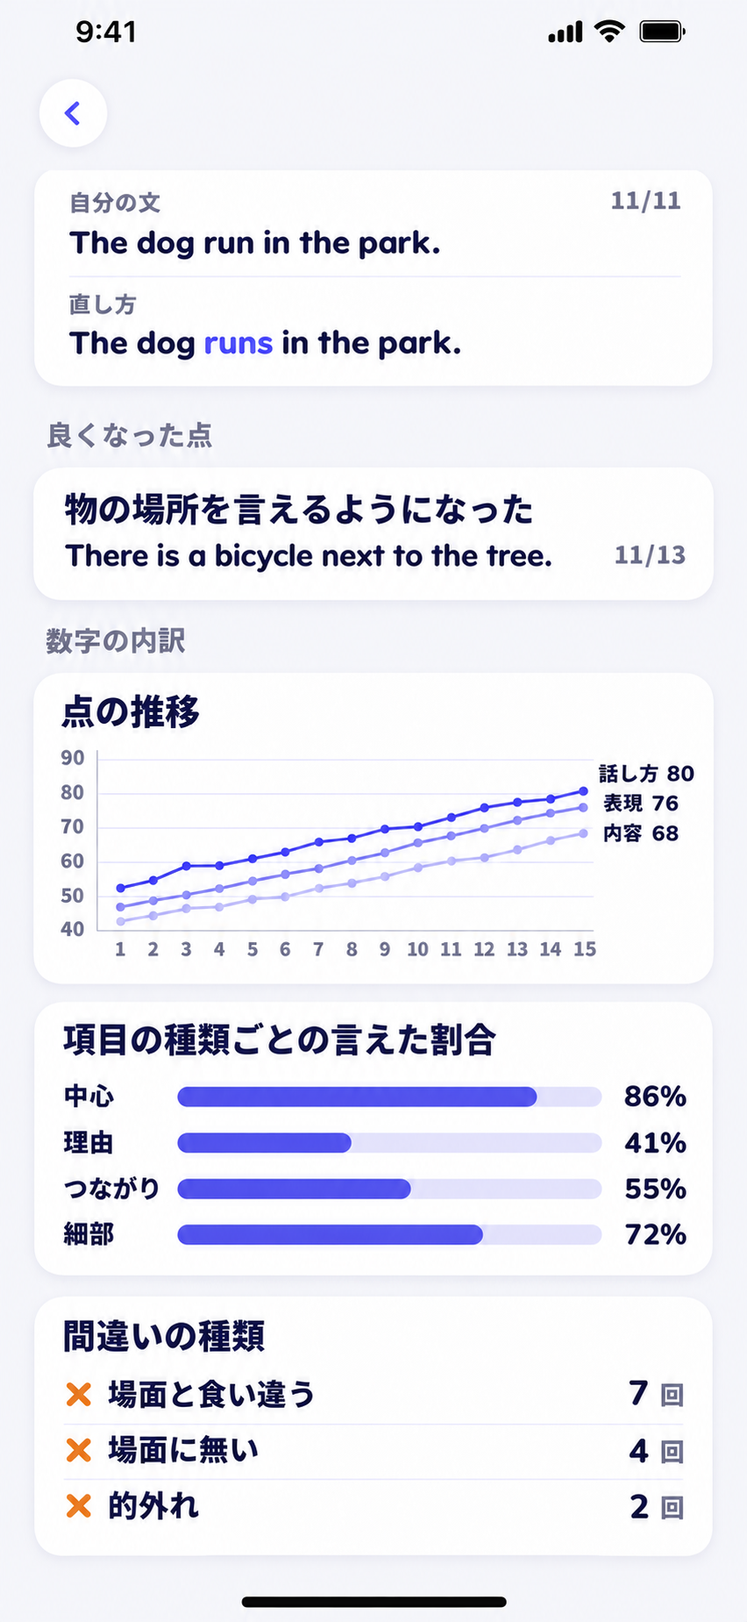
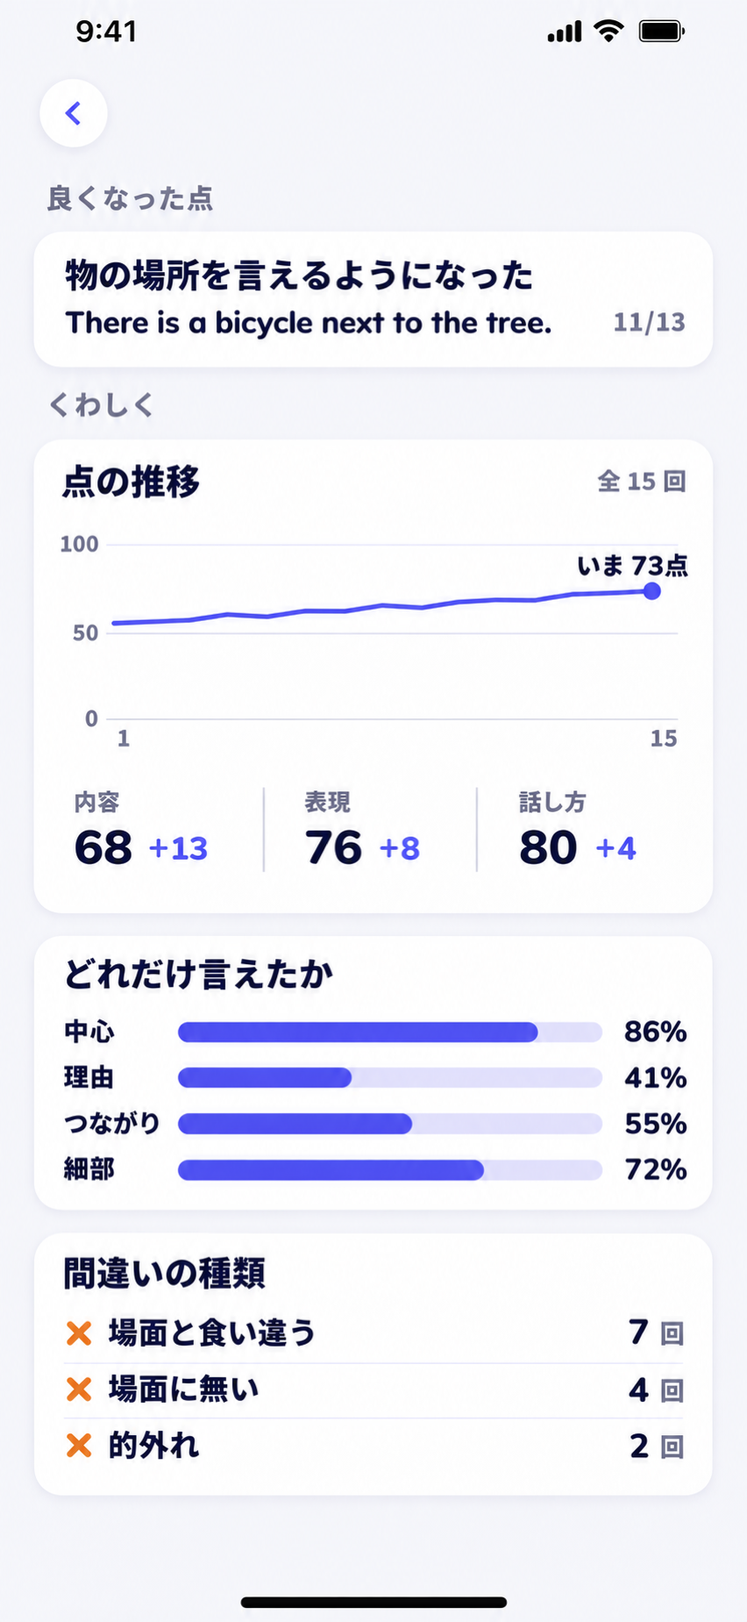
docs: 苦手・ホームを確定にし、きろくの 3D を全幅に直す
2026-11-13 のユーザーの決定を反映する。

- 苦手: 札を確定に。点の推移は案 C（合計の線 1 本と「いま 73点」、3 つの軸の今の点と伸び。
  「前半 → 後半の差」の札は付けない）。見出し「数字の内訳」を「くわしく」に、カードの題
  「項目の種類ごとの言えた割合」を「どれだけ言えたか」に変えた。癖は最大 3 件（0 件もあり、
  そのときは「くり返す癖は見つかりませんでした」）。下へスクロールした後の画像を Codex で描き直し、
  案 C の画像から札を消し、作っている間の画像の見出しを差し替えた。案 A・B は退けた案として短くし、画像を消した
- きろく: 3D をカードに入れず、今の実装と同じく全幅で横にスクロールする（隣ののぞきも無し）。
  ぼかしの壁を場面の名前のすぐ下まで上げる。画像を 9-records-proposal-v5-{1,2,3}.png に描き直した
- ホーム: 案 B（1-home-proposal-v3.png）で確定

diff --git a/docs/design/ui/screens/weak.md b/docs/design/ui/screens/weak.md
@@ -3,13 +3,13 @@ id = "weak"
 title = "苦手"
 group = "record"
 order = 30
-image = ["11-weak-proposal-v2-top.png", "11-weak-proposal-v2-bottom.png", "11-weak-proposal-v2-loading.png", "11-weak-proposal-v2-trend-a.png", "11-weak-proposal-v2-trend-b.png", "11-weak-proposal-v2-trend-c.png"]
-status = "案（画面の形を比べている）"
-status_note = "2026-11-13 に、並びと中身、作っている間の出し方を決めた。点の推移の見せ方は 3 案を比べている。実装は無い。画像はすべて Codex の案で、実装の見た目ではない。"
-image_labels = ["全体の案: 上", "全体の案: 下へスクロールした後", "AI の分析を作っている間（初めて。前回の分析が無い）", "点の推移の案 A: 細い折れ線 3 本と右端の今の値", "点の推移の案 B: 軸ごとに 3 段の小さな図", "点の推移の案 C: 合計の太い線 1 本と、3 つの軸の今の値と前半 → 後半の差"]
+image = ["11-weak-proposal-v2-top.png", "11-weak-proposal-v2-bottom.png", "11-weak-proposal-v2-loading.png", "11-weak-proposal-v2-trend-c.png"]
+status = "確定（実装はこれから）"
+status_note = "2026-11-13 に決めた。点の推移は案 C（合計の線 1 本と、3 つの軸の今の点と伸び）。実装は無い。画像はすべて Codex の案で、実装の見た目ではない（作っている間の画像の見出し「くわしく」は、文字だけ差し替えた）。癖の実例と「次はここ」は、まだ押せない。"
+image_labels = ["上", "下へスクロールした後（見出し「くわしく」、点の推移は案 C）", "AI の分析を作っている間（初めて。前回の分析が無い）", "点の推移（案 C）を大きく"]
 role = "端末に残した直近 10 回の記録から、くり返す癖と次に試すことを AI が出し、数えた内訳を添える。"
-main_actions = ["「次はここ」を見る（押した先は Award Day の後に決める）", "くり返す癖（2〜3 件）と直し方を読む", "良くなった点を読む", "数字の内訳（点の推移・言えた割合・間違いの種類）を見る", "戻る（きろくへ）"]
-data_shown = ["次はここ（AI の次の 1 回で試すこと。無ければ数えた結果で最も低い種類）", "くり返す癖（観点・何が起きているか・自分の文の実例と日付・直し方）", "良くなった点（引用つき。無ければ出さない）", "点の推移（全部の回。内容・表現・話し方）", "項目の種類ごとの言えた割合（中心・理由・つながり・細部）", "間違いの種類の数（場面と食い違う・場面に無い・的外れ）"]
+main_actions = ["「次はここ」を見る（押した先は Award Day の後に決める）", "くり返す癖（最大 3 件）と直し方を読む", "良くなった点を読む", "「くわしく」（点の推移・どれだけ言えたか・間違いの種類）を見る", "戻る（きろくへ）"]
+data_shown = ["次はここ（AI の次の 1 回で試すこと。無ければ数えた結果で最も低い種類）", "くり返す癖（最大 3 件。足りなければ少なく、0 件もある。観点・何が起きているか・自分の文の実例と日付・直し方）", "良くなった点（引用つき。無ければ出さない）", "点の推移（全部の回の合計の線と、内容・表現・話し方の今の点と伸び）", "どれだけ言えたか（項目の種類ごとの言えた割合。中心・理由・つながり・細部）", "間違いの種類の数（場面と食い違う・場面に無い・的外れ）"]
 note = "数え方と AI の呼び方の正本は、分析の設計の文書 `docs/design/weak-point-analysis.md` と ADR `docs/adr/20261113-analyze-weak-points-with-ai-from-on-device-counts.md`（どちらも branch docs/weak-point-analysis。main にはまだ無い）。見せ方はこの文書（v2）が正。"
 entry_points = [
   { from = "records", how = "push", trigger = "フッターの苦手をぶっとばせ！（記録が 5 件以上のときだけ出る）" },
@@ -21,16 +21,15 @@ exits = [
 
 ## 課題
 
-- 点の推移の見せ方（全部の回を横に並べる）。折れ線 3 本（内容・表現・話し方）が有力だが、ユーザーは「まず見やすさを追求したい」。案 A〜C を比べて決める。
+- 点の推移の見せ方（全部の回を横に並べる）。ユーザーは「まず見やすさを追求したい」。案 A〜C を比べ、2026-11-13 に案 C に決めた。
+- 「数字の内訳」という見出しは、小中高生には「何の数字？」となる。2026-11-13 に「くわしく」にした。
 
 ## 改善案
 
 - 2026-11-12 に、グラフを並べる案（A）と、「次はここ」を 1 つ大きく出す案（B）を比べ、B にした。
-- 2026-11-13 の点の推移の 3 案（画像の 4〜6 枚目）:
-  - 案 A: 細い折れ線 3 本（紫の濃淡。話し方は破線）を 1 つの図に重ね、右端に今の値の札（「内容 68」など）を直接付ける。凡例の箱は置かない。
-  - 案 B: 軸ごとに 3 段の小さな図（スモールマルチプル）に分ける。横に並んだ回と 0〜100 の目盛りは 3 段で共通。各段は紫の線 1 本と右端の今の値。
-  - 案 C: 合計の太い折れ線 1 本と「いま 73点」。その下に 3 つの軸の今の値と、直近 10 回の前半 → 後半の差（「＋8」など）。
-  - 紫の濃淡 3 色（案 A）は、色の検査（dataviz の validate_palette）で、いちばん濃い色が明るさの帯から外れ、いちばん薄い色が地との差 3:1 に届かなかった。色だけで見分けさせず、右端の札と線の形（破線）を併せて使う。
+- 2026-11-13 の点の推移の 3 案のうち、退けた案（画像は消した）:
+  - 案 A: 細い折れ線 3 本（紫の濃淡）を 1 つの図に重ね、右端に今の値の札。紫の濃淡は色だけでは見分けにくかった（薄い紫が地との差 3:1 に届かない）。
+  - 案 B: 軸ごとに 3 段の小さな図。線は重ならないが、0〜100 の共通の目盛りだと変化が平らに見えた。
 
 ## 決定
 
@@ -38,20 +37,20 @@ exits = [
 
 - 入口: きろくの下に固定したフッター「苦手をぶっとばせ！」。記録が 4 件以下のときは、入口ごと隠す（5 件以上で出る）。
 - 分析: 直近 10 件の記録を、級を混ぜて使う。AI は記録が 5 件以上のときに呼ぶ（入口が出るときは、いつも呼べる）。
-  - AI が返すもの: くり返す癖を、内容と表現を合わせて 2〜3 件（各件に観点・何が起きているか・自分の文の実例・直し方）、良くなった点 1 つ（後半の回の自分の文を引用する。無ければ出さない）、次の 1 回で試すこと 1 つ。
+  - AI が返すもの: くり返す癖を、内容と表現を合わせて最大 3 件（目安は 2〜3 件。2 回以上出た癖が足りなければ少なく、0 件もある。各件に観点・何が起きているか・自分の文の実例・直し方）、良くなった点 1 つ（後半の回の自分の文を引用する。無ければ出さない）、次の 1 回で試すこと 1 つ。
   - 発音（話し方）は AI に渡さない。点の推移で見せる。
   - 送った入力は、サーバーにも端末にも残さない。返ってきた分析の結果は、端末（`analysis/weak-points.json`）に 1 つだけ覚え、作り直すときに入れ替える。設定の「きろくと録音をすべて消す」で一緒に消す。
 - 並び（上から）:
   - 1 番目: 「次はここ」: AI の次の 1 回で試すこと。薄い紫の地のカード（振り返りの「次の一つ」と同じ見た目）。
-  - 2 番目: くり返す癖（2〜3 件）: 観点の札（内容・表現）、何が起きているか、自分の文の実例と日付、直し方。
+  - 2 番目: くり返す癖（最大 3 件）: 観点の札（内容・表現）、何が起きているか、自分の文の実例と日付、直し方。0 件のときは、欄に短い 1 行「くり返す癖は見つかりませんでした」を出す（言い回しは分析の設計の文書の 9 章の表に合わせた）。良くなった点と「次はここ」は、そのまま出す。
   - 3 番目: 良くなった点（1 つ。引用と日付）。無ければ欄ごと出さない。
-  - 4 番目: 数字の内訳: 点の推移、項目の種類ごとの言えた割合、間違いの種類の数。
+  - 4 番目: 「くわしく」（2026-11-13 に「数字の内訳」から変えた。小中高生に伝わる言葉にするため）: 「点の推移」、「どれだけ言えたか」（項目の種類ごとの言えた割合。行は 中心・理由・つながり・細部）、「間違いの種類」。
 - AI の分析を作っている間（数秒〜十数秒）:
   - 前回の分析があれば、それを「前回の分析」として出したまま作り直す。
   - 無ければ（初めて）、「次はここ」は数えた結果で言えた割合が最も低い種類を出す（例: 「『理由』を言おう」「because を足してみよう。」と「理由 41%」）。癖の欄は、作っている途中と分かる控えめな表示（灰色の仮の行と「AI が分析しています…」）にする。良くなった点の欄はまだ出さない。
-  - 失敗したときも、数えた結果（「次はここ」の代わりと数字の内訳）は出す。
+  - 失敗したときも、数えた結果（「次はここ」の代わりと「くわしく」）は出す。
 - 癖の実例（自分の文）は、今は押せない（文と日付は出す）。「次はここ」を押した先も、Award Day の後に決める。
-- 点の推移は、直近 10 件に限らず、全部の回を古い順に横に並べる。見せ方は案 A〜C を比べている（課題）。
+- 点の推移は、直近 10 件に限らず、全部の回を古い順に横に並べる。見せ方は案 C（2026-11-13 に決定）: 合計の太い線 1 本と、最後の点に「いま 73点」。その下に、内容・表現・話し方の今の点と伸び（「＋13」など）を並べる。伸びの数字だけを出し、「前半 → 後半の差」のような説明の札は付けない。伸びの数え方（直近 10 件の前半と後半の平均の差）は、分析の設計の文書の「点の前半と後半」に合わせる（推測。数え方は設計の文書が正）。
 - 見た目はアプリにそろえる: ボタンは紫の単色、カードは白と今の角丸、文字も今のアプリ。グラデーションにしない。出すのは本当に要るものだけ。
 - 画像の中の文（英検 3 級の場面を想定した例）は作った例で、AI の実際の出力ではない。
 

diff --git a/docs/design/screen-flow.md b/docs/design/screen-flow.md
@@ -19,7 +19,7 @@
 | # | 画面 | 見る人 | 状態（2026-11-13） | 主な中身 |
 | --- | --- | --- | --- | --- |
 | 0 | 最初の画面 | 初めて開いた人 | 確定（実装あり: #116） | 名前を保存していないときだけ出る。ジオラマ、「ScenEnglish」、「あなたの名前を決めよう」、名前の欄、「はじめる」。色は 6 色から自動で決める。決めたらホームへ、2 回目からは出ない。機能の案内（オンボーディング）は作らない（[`ui/screens/first.md`](./ui/screens/first.md)） |
-| 1 | ホーム | 全員 | 案（直し待ち） | 「あそぶ」（自分の部屋を作って待合へ）、きろくへの入口、右上に設定。名前と色の欄と「部屋を作る」「部屋に入る」は無くした。2026-11-13 のレビューで、案 B（大きなジオラマの下にタイトル。まとまりは空きの中の少し上）と、「あそぶ」（塗り）と「きろく」（枠だけ、同じ大きさ、文字だけ）を下の方に縦に並べる形に直すと決めた（[`ui/screens/home.md`](./ui/screens/home.md)） |
+| 1 | ホーム | 全員 | 確定（実装あり: #114 / #116。置き方を直す） | 「あそぶ」（自分の部屋を作って待合へ）、きろくへの入口、右上に設定。名前と色の欄と「部屋を作る」「部屋に入る」は無くした。2026-11-13 のレビューで、案 B（大きなジオラマの下にタイトル。まとまりは空きの中の少し上）と、「あそぶ」（塗り）と「きろく」（枠だけ、同じ大きさ、文字だけ）を下の方に縦に並べる形に直すと決め、案 B で確定した（[`ui/screens/home.md`](./ui/screens/home.md)） |
 | 2 | 他のルームに入る（シート） | ホスト | 確定（実装あり: #116。移り方は直す） | 待合の「他のルーム」で開く。QR の読み取り、コードの入力。4 桁そろうと、先に確かめる通信はせずに入りにいき、入れたら今の部屋を抜ける。入れなければ今の待合のまま理由を出す（2026-11-13）。前はホームの「部屋に入る」で開く画面だった（[`ui/screens/join.md`](./ui/screens/join.md)） |
 | 3 | 待合（ロビー） | 全員 | 確定（実装あり: #116。移り方は直す。難易度とスタートは実装済み） | 部屋のコードと QR（ホストには、その下に「他のルーム」。ほかの人がいれば、移る前に「やめる／入る」で確かめる）、参加者の一覧。ホストだけ、難易度（かんたん＝英検3級・ふつう＝準2級・むずかしい＝2級）を選んで「スタート」。場面はスタートまで見せない（2026-11-11 に変更。サムネイル付きの一覧と「おまかせ」は外した）。場面を AI で作っている間は全員ここで待つ |
 | 4 | プレイ | 全員 | 実装済み | 3D シーン（最初に自動で 1 周）、カウントダウン、録音中の残り時間、音量メーター、「話し終えた」ボタン。ライブ字幕は出さない（お題の帯と注意書きは 2026-11-11 に検討して出さないことにした） |
@@ -27,9 +27,9 @@
 | 6 | 結果発表（順位） | 全員 | 実装済み | 最下位から 1 行ずつ順位・名前・合計の点を開き、最後に優勝を出す。全員の画面で同じ盤面（3 つの軸やチェックの数は出さない。2026-11-11 に確かめた） |
 | 7 | 振り返り | 各自 | 実装済み | 3 つの軸の点、下線を引いた自分の描写、場面のチェック、場面と合わない描写、次の一つ、見本の答え、言い直し、話し方の一言（2026-11-11 に変更。前の講評と模範表現は無くなった。[`ui/screens/review.md`](./ui/screens/review.md)） |
 | 8 | みんなの描写 | 全員 | 実装済み | 全員の文字起こしを点数順に並べ、各行に合計の点を添える（2026-11-11 に変更。講評の一言は無くなった） |
-| 9 | きろく | 各自 | 確定（実装あり: #114。直す） | 3D と場面の名前の白いカードの横の並び（隣がのぞく）と、選んだ場面を遊んだ回の振り返り（7 と同じ中身。順位は無い）を新しい順に縦に続ける。下へスクロールすると、小さくした 3D と名前だけが上に止まり、その下で中身がぼかしの壁に溶ける（余白は詰める）。苦手の入口は下に固定したフッター。2026-11-13 に案 B 改に確定（[`ui/screens/records.md`](./ui/screens/records.md)） |
+| 9 | きろく | 各自 | 確定（実装あり: #114。直す） | 全幅の 3D の横の並び（カードに入れない。隣ののぞきも無し）と場面の名前と、選んだ場面を遊んだ回の振り返り（7 と同じ中身。順位は無い）を新しい順に縦に続ける。下へスクロールすると、小さくした 3D と名前だけが上に止まり、名前のすぐ下で中身がぼかしの壁に溶ける。苦手の入口は下に固定したフッター。2026-11-13 に案 B 改に確定（[`ui/screens/records.md`](./ui/screens/records.md)） |
 | 10 | 設定 | 各自 | 確定（実装あり: #114 / #116。名前と色は直す） | 名前と色（2026-11-13 に、重ねる画面をやめて、前のホームの欄をこの画面の中に移すと確定）、きろくと録音をすべて消す（#114。オレンジ、回数つきの確かめ）。今はこの 2 つだけ。プライバシーポリシー・問い合わせの窓口・ライセンスの表示・アプリの版は後で足す（[`ui/screens/settings.md`](./ui/screens/settings.md)） |
-| 11 | 苦手 | 各自 | 案（画面の形を比べている） | 入口はきろくのフッター「苦手をぶっとばせ！」（記録が 5 件以上のときだけ出る）。直近 10 件から AI が出す「次はここ」（次の 1 回で試すこと）→ くり返す癖 2〜3 件（観点・何が起きているか・自分の文・直し方）→ 良くなった点 → 数字の内訳（点の推移・項目の種類ごとの言えた割合・間違いの種類の数）。AI を作っている間は前回の分析か数えた結果を出す。点の推移の見せ方は 3 案を比べている。数え方と AI の呼び方は `docs/design/weak-point-analysis.md`（branch docs/weak-point-analysis。2026-11-13。[`ui/screens/weak.md`](./ui/screens/weak.md)） |
+| 11 | 苦手 | 各自 | 確定（実装はこれから） | 入口はきろくのフッター「苦手をぶっとばせ！」（記録が 5 件以上のときだけ出る）。直近 10 件から AI が出す「次はここ」（次の 1 回で試すこと）→ くり返す癖 最大 3 件（0 件なら「くり返す癖は見つかりませんでした」）（観点・何が起きているか・自分の文・直し方）→ 良くなった点 → 「くわしく」（点の推移・どれだけ言えたか・間違いの種類）。AI を作っている間は前回の分析か数えた結果を出す。点の推移は、合計の線 1 本と 3 つの軸の今の点と伸び（2026-11-13 に案 C に決定）。数え方と AI の呼び方は `docs/design/weak-point-analysis.md`（branch docs/weak-point-analysis。2026-11-13。[`ui/screens/weak.md`](./ui/screens/weak.md)） |
 
 ## 遷移
 
@@ -60,12 +60,10 @@ flowchart TD
   Weak -->|戻る| Records
 
   classDef fixed stroke:#64748b,stroke-width:3px
-  classDef proposal stroke:#E8771E,stroke-width:3px,stroke-dasharray:6 4
-  class First,Join,Lobby,Records,Settings fixed
-  class Home,Weak proposal
+  class First,Home,Join,Lobby,Records,Settings,Weak fixed
 ```
 
-凡例: 灰色の太い枠は確定（実装は #114・#116 の PR にある。他のルームの移り方・きろく・設定の名前と色は直す）、オレンジの破線の枠は案（直し待ち。今の実装は #114・#116 の PR にあり、直す案の画像を並べた）、枠の無い画面は実装済み（苦手は案で、画面の形を比べている）。画像つきの遷移図は `docs/design/ui/build/ui-spec.html`（`python3 scripts/ui-spec/build.py` で作る。[`ui/README.md`](./ui/README.md)）。
+凡例: 灰色の太い枠は確定（実装は #114・#116 の PR にあり、他のルームの移り方・ホームの置き方・きろく・設定の名前と色を直す。苦手の実装はこれから）、枠の無い画面は実装済み。新しい画面はすべて確定した（2026-11-13。苦手は実装がまだ無い）。画像つきの遷移図は `docs/design/ui/build/ui-spec.html`（`python3 scripts/ui-spec/build.py` で作る。[`ui/README.md`](./ui/README.md)）。
 
 初めて開いたとき（名前を保存していないとき）は、ホームの代わりに最初の画面が出る。名前を決めるとホームになり、2 回目からは出ない。
 

diff --git a/docs/design/ui/screens/records.md b/docs/design/ui/screens/records.md
@@ -3,12 +3,12 @@ id = "records"
 title = "きろく"
 group = "record"
 order = 10
-image = ["9-records-proposal-v4b-1.png", "9-records-proposal-v4b-2.png", "9-records-proposal-v4b-3.png", "9-records.png", "9-records-scrolled.png", "9-records-empty.png"]
+image = ["9-records-proposal-v5-1.png", "9-records-proposal-v5-2.png", "9-records-proposal-v5-3.png", "9-records.png", "9-records-scrolled.png", "9-records-empty.png"]
 status = "確定（実装あり: #114。直す）"
-status_note = "2026-11-13 に案 B 改に確定。今の実装は PR #114（feat/play-records-screen）で、#114 を直す。1〜3 枚目が確定した形（Codex の画像。実装の見た目ではない。止まった後の余白は、決定の節のとおり実装で詰める）、4〜6 枚目が今の実装（Mock、例の記録 12 件）。"
-image_labels = ["確定した形（案 B 改）: スクロールの前。Codex の画像", "確定した形（案 B 改）: 3D が止まり、中身がぼかしの壁に溶ける所（実装では 3D と名前の下の空きを詰め、ぼかしを上げる）。Codex の画像", "確定した形（案 B 改）: さらに下（前の回）。Codex の画像", "今の実装: 上", "今の実装: 下にスクロール", "今の実装: 記録が 0 件のとき"]
+status_note = "2026-11-13 に案 B 改に確定し、同じ日に、スクロールの前の 3D をカードに入れない形（今の実装と同じ全幅）に直した。今の実装は PR #114（feat/play-records-screen）で、#114 を直す。1〜3 枚目が確定した形（Codex の画像。実装の見た目ではない）、4〜6 枚目が今の実装（Mock、例の記録 12 件）。"
+image_labels = ["確定した形: スクロールの前（3D は全幅、カードに入れない）。Codex の画像", "確定した形: 3D が止まり、中身が名前のすぐ下でぼかしの壁に溶ける所。Codex の画像", "確定した形: さらに下（前の回）。Codex の画像", "今の実装: 上", "今の実装: 下にスクロール", "今の実装: 記録が 0 件のとき"]
 role = "遊んだ本人が、前のラウンドを場面ごとに見返す。"
-main_actions = ["場面を横に送って選ぶ（3D と名前のカードの所で送る）", "下にスクロールして、選んだ場面を遊んだ回の振り返りを新しい順に読む", "その回の録音を聴く", "下のフッターの「苦手をぶっとばせ！」で苦手へ（未確定）", "戻る"]
+main_actions = ["場面を横に送って選ぶ（全幅の 3D の所で送る）", "下にスクロールして、選んだ場面を遊んだ回の振り返りを新しい順に読む", "その回の録音を聴く", "下のフッターの「苦手をぶっとばせ！」で苦手へ（未確定）", "戻る"]
 data_shown = ["遊んだ場面の 3D と名前（最後に遊んだのが新しい順）", "その場面を遊んだ回数", "回ごとの振り返り（日付の区切り・難易度・合計・内容・表現・話し方・あなたの描写・場面のチェック・場面と合わない描写・次の一つ・見本の答え・言い直し・話し方の一言。順位は無い）"]
 note = "中身は端末に残した記録（`docs/design/play-record.md`。PR #114 で足す）だけから出す。通信しない。"
 entry_points = [
@@ -85,10 +85,16 @@ exits = [
 （2026-11-13 に案 B 改に確定。PR #114 を直す）
 
 - 上に戻るボタンと見出し「きろく」。「りれき」の見出しは無くす。
-- 場面は、3D と場面の名前を入れた白いカードを横に並べる。真ん中のカードが大きく、隣のカードが左右の端から少しのぞく（横に送れる手がかり）。「N 回あそんだ」とページの点は出さない。
+- 場面は、3D と場面の名前を入れた白いカードを横に並べる。真ん中のカードが大きく、隣のカードが左右の端から少しのぞく（横に送れる手がかり）。「N 回あそんだ」とページの点は出さない。（同じ日に下の直しで変えた。カードには入れない）
 - その下に、選んだ場面を遊んだ回の振り返りを新しい順に縦に続ける。区切りは「11/13 3:02」（「最新」は付けない）。
 - 下へスクロールすると、カードは上端に着くまで一緒に上がり、そこで止まる。止まった後は、カードの枠は消え、小さくした 3D と場面の名前だけが上に残る。帯・線・回数・点は無い。
 - 止まった 3D と名前の下では、下から上がってくる中身が、地の色のぼかしのグラデーション（疑似的な壁）に溶けて消える。
-- 余白は詰める（2026-11-13 のユーザーの指示。画像よりも詰める）: 止まった後の 3D と名前の下の空きは小さくし、ぼかしの壁は場面の名前の少し下、名前がぎりぎり見えるくらいの位置まで上げる。振り返りを読める所を広くして、一度に見える情報を増やすため。画像（Codex の案）は空きが大きいままなので、実装で合わせる。
+- 余白は詰める（2026-11-13 のユーザーの指示）: 止まった後の 3D と名前の下の空きは小さくし、ぼかしの壁は場面の名前の少し下、名前がぎりぎり見えるくらいの位置まで上げる。振り返りを読める所を広くして、一度に見える情報を増やすため。
 - 「苦手をぶっとばせ！」は下に固定したフッターのボタン。アプリのほかのボタンと同じ紫の単色。下へスクロールして振り返りを読み始めたらすっと下に隠れ、上に戻ると出る。記録が 4 件以下のときは入口ごと隠す（5 件以上で出る。2026-11-13。[`weak.md`](./weak.md)）。
 - 色・角丸・文字は、今のアプリ（Theme）にそろえる。
+
+（2026-11-13 に案 B 改を直した。上の決定のうち、スクロールの前の形とぼかしの位置が変わる）
+
+- 3D はカードに入れない。今の実装と同じく、3D を全幅で横にスクロールする（案 A と同じ置き方）。隣の場面ののぞきも無し。3D の下には場面の名前だけを出す。
+- スクロールした後（3D が上に残って小さくなり、その下に名前だけ）は、案 B 改のまま。
+- 中身が消えるぼかしの壁は、場面の名前（「砂浜の男の子と女の子」）のすぐ下ぎりぎりまで上げる。名前と中身のあいだに空きの帯を残さない。

diff --git a/docs/design/ui/screens/home.md b/docs/design/ui/screens/home.md
@@ -4,9 +4,9 @@ title = "ホーム"
 group = "room"
 order = 10
 image = ["1-home-proposal-v3.png", "1-home.png"]
-status = "案（直し待ち）"
-status_note = "2026-11-13 のレビューで、置き方を直すことにした。今の実装は PR #114（きろくの板・設定の歯車）と #116（「あそぶ」へのまとめ・名前と色の欄を無くした）。案 B（大きなジオラマの下にタイトル）に決め、余白を整えて描き直した。1 枚目がその案（Codex の画像。実装の見た目ではない）、2 枚目が今の実装（#116 のアプリ）。"
-image_labels = ["直す案 B（大きなジオラマの下にタイトル。余白を整えた）。Codex の画像", "今の実装（#116）"]
+status = "確定（実装あり: #114 / #116。置き方を直す）"
+status_note = "2026-11-13 に案 B で確定。今の実装は PR #114（きろくの板・設定の歯車）と #116（「あそぶ」へのまとめ・名前と色の欄を無くした）で、置き方を #114・#116 で直す。1 枚目が確定した形（Codex の画像。実装の見た目ではない）、2 枚目が今の実装（#116 のアプリ）。"
+image_labels = ["確定した形（案 B。大きなジオラマの下にタイトル）。Codex の画像", "今の実装（#116）"]
 role = "「あそぶ」で自分の部屋を作って待合に入る入口。きろくと設定にも、ここから入る。"
 main_actions = ["「あそぶ」で自分の部屋を作り、ホストとして待合へ", "「きろく」で前のラウンドを見返す（直す案では、あそぶと同じ大きさの枠だけのボタン）", "右上の歯車で設定へ"]
 data_shown = ["アプリの名前とジオラマ", "端末に残した遊んだ記録の回数（これまでの N 回。直す案では出さない）"]
@@ -43,7 +43,7 @@ exits = [
 - 記録が 0 件のときも板は出し、「あそぶと、ここにたまります」と出す。押すと、きろくの 0 件の画面が開く。
 - 待合の「他のルーム」で、確かめの後で入れなくなってホームに戻ったときは、きろくの板の下に「入れませんでした（満員）」のように理由を一言出す。ボタンの位置は動かさない。知らせは VoiceOver でも読み上げ、「あそぶ」を押すかホームから次の画面へ進むと消える。（2026-11-13 に無くした。他のルームで入れなかったときは今の待合に残る。[`lobby.md`](./lobby.md)）
 
-（2026-11-13 のレビューで直すことにした。直し待ち）
+（2026-11-13 のレビューで直すことにし、案 B で確定。#114・#116 の実装を直す）
 
 - 全体が上に寄りすぎている。タイトルとジオラマを、画面の上半分の中ほどに置く。
 - 主の操作は、親指の届く下の方に置く。「あそぶ」（紫の塗り）と「きろく」（枠だけ）を、同じ大きさ・同じ幅で縦に 2 つ並べる。
@@ -51,3 +51,4 @@ exits = [
 - 右上の設定の歯車は、今のまま。
 - 案は 2 つ（タイトルとジオラマの順番が違う）を出し、案 B（大きなジオラマの下にタイトル、その下の方に「あそぶ」「きろく」を縦、右上に歯車）に決めた（2026-11-13）。
 - 案 B の初めの絵は空きが気持ち悪く、見た目が美しくなかったので、並び順はそのままで置き方を描き直した。ジオラマとタイトルのまとまりは、歯車の行と下のボタンのあいだの空きの中で、見た目の重心が少し上（光学的な中心）に来るように置く。ジオラマとタイトルの間は狭く、タイトルとボタンの間はその 4 倍ほどにし、上の空き（歯車の行からジオラマまで）と下の空き（タイトルからボタンまで）はおよそ 2 : 3 にする。ジオラマは画面の幅の 8 割ほどまで大きくする（描き直した絵の目安。実装で見て合わせる）。
+- 2026-11-13 に、描き直した案 B（`1-home-proposal-v3.png`）で確定した。
